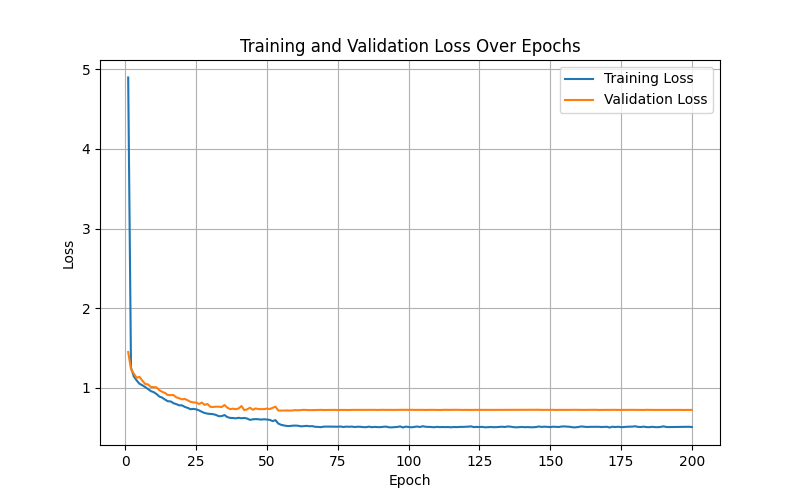
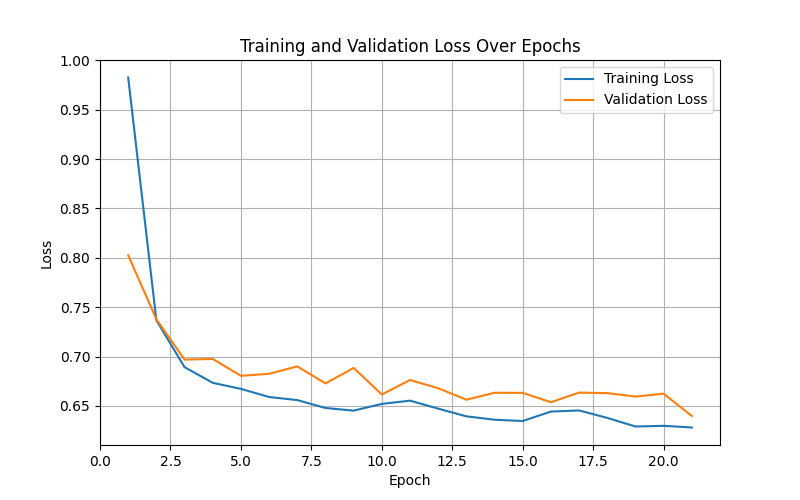
improved exact match by little bit

diff --git a/NN/README.md b/NN/README.md
@@ -63,6 +63,7 @@ training sessions for arcade
       weight_decays: [0.0001, 0.001]
 
       use_pca_options: [false]    
+Beated no existing models
       
 3. session: 500 models with COMBINED. Based on the model that was working in the past
 
@@ -79,6 +80,12 @@ training sessions for arcade
       learning_rates: [0.01, 0.1] 
       weight_decays: [ 0.001, 0.01] 
       use_pca_options: [false, true] 
+Beated 1 model:
+Best 'EXACT_MATCH' Model:
+  convert_input: False || hidden_layers: [64] || dropout_rate: 0.11 || hidden_activation_func: relu || batch_size: 1024 || batch_norm: True
+  patience: 5 || loss_func: bcewithlogitloss || optimizer: Adam || learning_rate: 0.01 || weight_decay: 0.00 || use_pca: False || max_epochs: 21
+==> Exact Match = 2.14% || F1 = 0.5695 || MCC = 0.2175 || MAP = 0.2771 || Hamming Loss = 0.0759 || Combined Score = 48.02%
+
 
 4. session: 350 models, MAP, hugeee search space, consulted with gemini
       convert_input: [true] # [true, false]   # convert input data from (-1 and 1) to (0 and 1) for training
